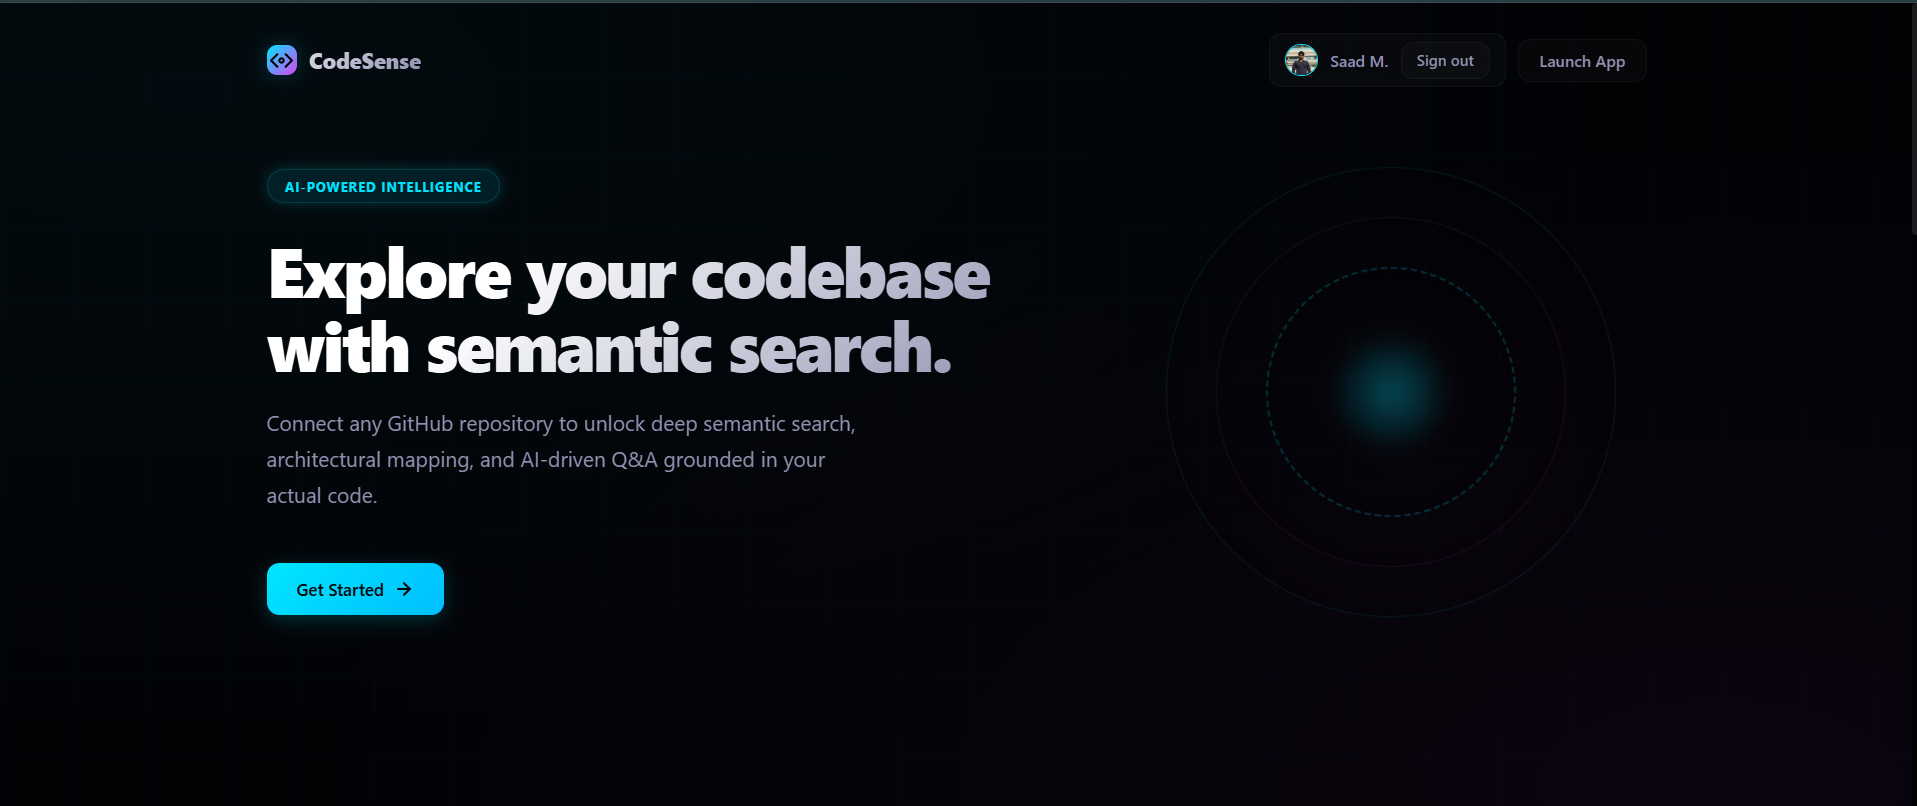
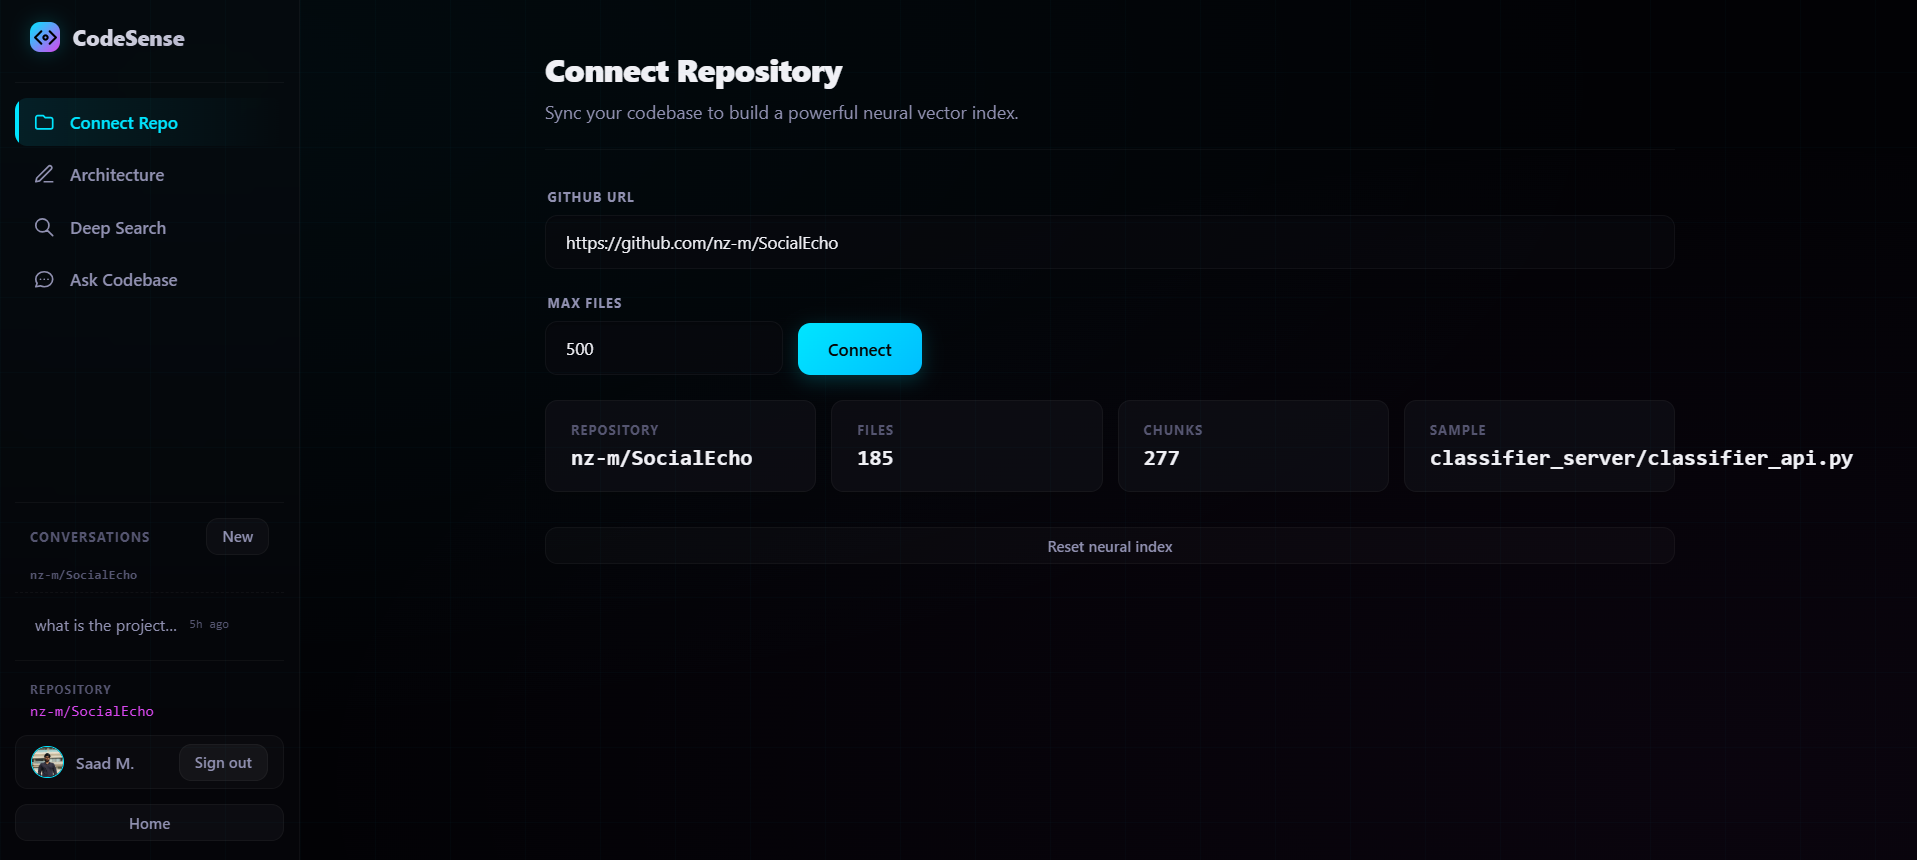
Rename screenshots: landing page and connect repository

diff --git a/README.md b/README.md
@@ -54,13 +54,13 @@ CodeSense solves this by creating an **AI intelligence layer** over repositories
 
 ## Screenshots
 
-### Repository Ingestion
+### Landing Page
 
-![Dashboard](assets/ingestion.png)
+![Landing](assets/landing.png)
 
-### Chat Conversation
+### Connect Repository
 
-![Chat](assets/chat.png)
+![Ingestion](assets/ingestion.png)
 
 ### Architecture Diagram
 
